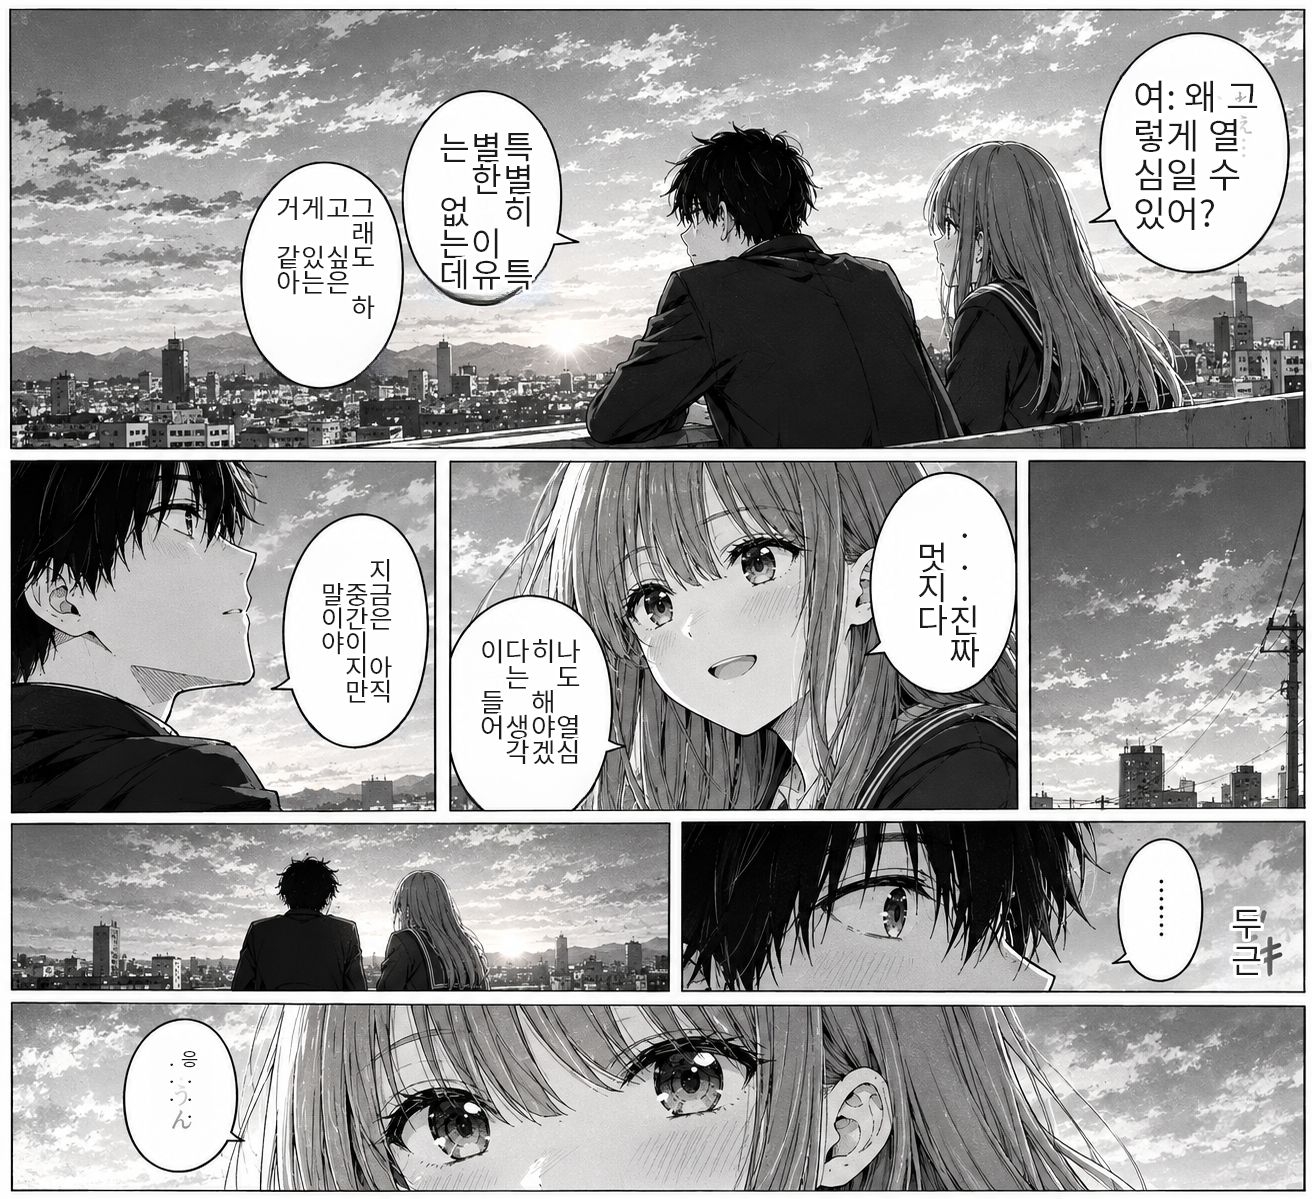
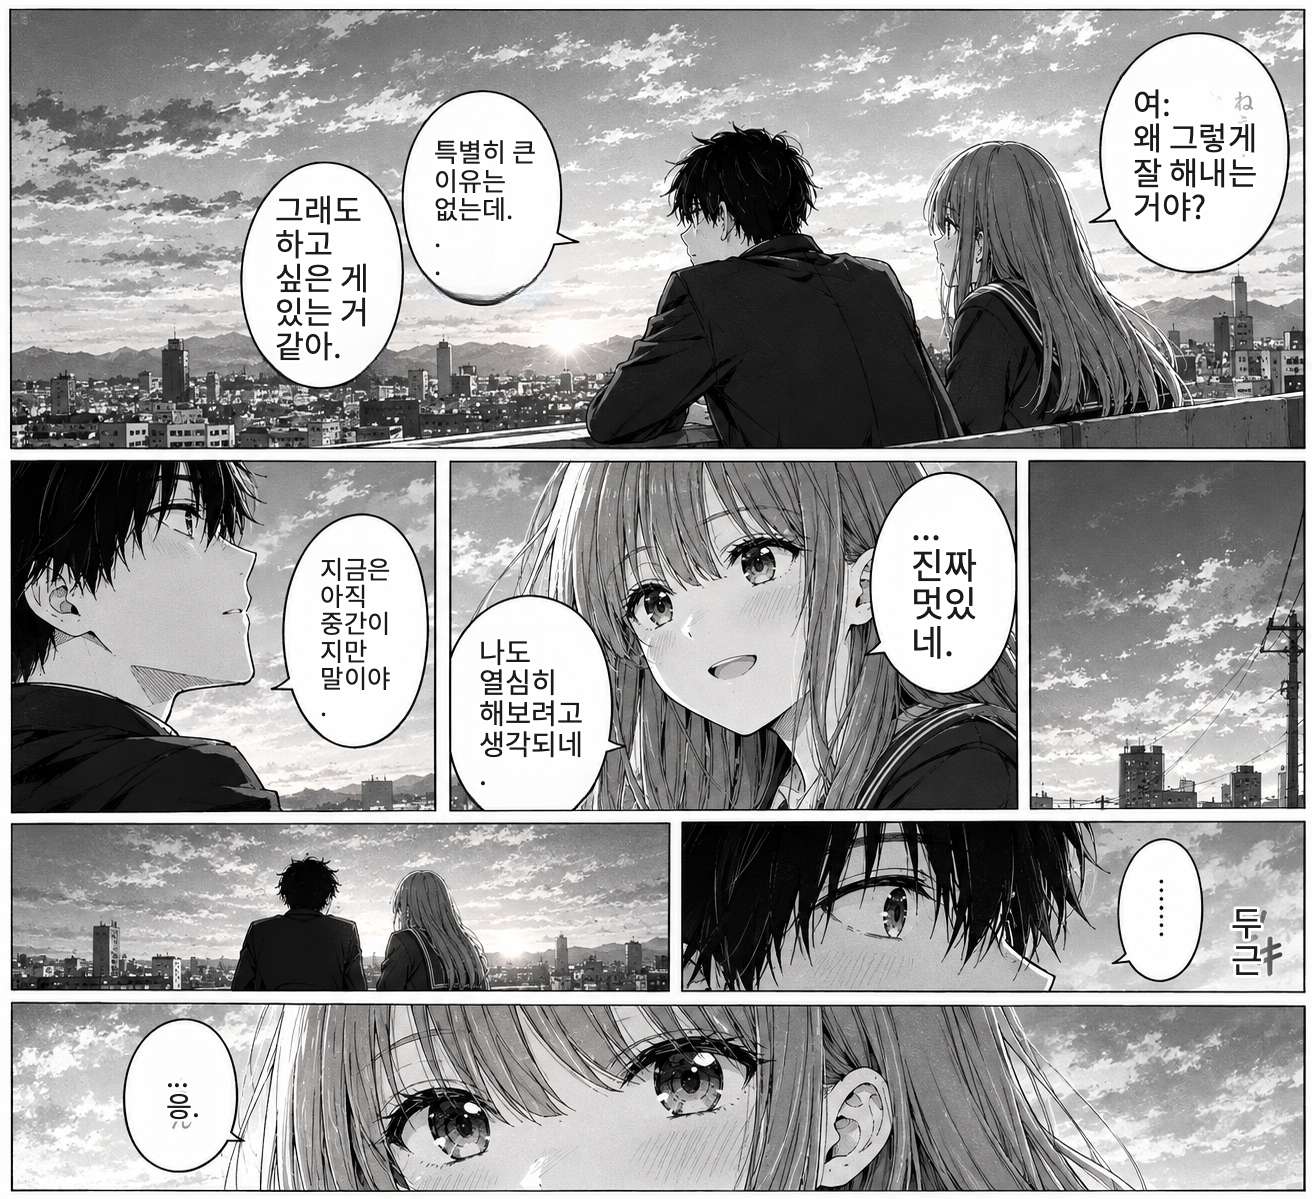
Korean horizontal reflow + tone-aware translation + README refresh
- Renderer: force horizontal Korean layout (RENDER_VERT=1 restores vertical),
  line-break priority: '/' hard break > clause split (…) > word wrap
- SpeechTone (Auto/Male/Female) on TextRegion + per-bubble ComboBox in editor;
  Qwen GGUF injects (여)/(남) markers, Clean() strips marker echoes;
  TRANSLATE_TONE env for CLI; WebApi engines signature-compatible
- README rewritten to current state; stale refs removed
- sample/: refreshed after.png, removed transient clean/ocr/log files

diff --git a/src/MangaTranslator.Plugins.Render.Skia/SkiaFontRenderer.cs b/src/MangaTranslator.Plugins.Render.Skia/SkiaFontRenderer.cs
@@ -47,6 +47,11 @@ public sealed class SkiaFontRenderer : ITextRenderer, ILoadableEngine, IDisposab
     /// halo 색은 fill과 반대: 검은 글자→흰 halo, 흰 글자→검은 halo(만화 표준 가독성 처리).</summary>
     public float OutlineWidth { get; set; } = FEnv("RENDER_OUTLINE", 0.18f, 0f, 0.5f);
 
+    /// <summary>세로 렌더 복귀 스위치(env RENDER_VERT=1). 기본 off —
+    /// 사용자 규칙(2026-10-27): 한국어는 무조건 가로 재조판(행 위→아래 순서).
+    /// OCR 세로 탐지(ReadingDir)는 기본 무시, env로만 만화식 세로 복원.</summary>
+    public static bool RenderVertical => Environment.GetEnvironmentVariable("RENDER_VERT") == "1";
+
     private static float EffMin(float minFs, float scale) => minFs > 0 ? minFs * Math.Clamp(scale, 0.4f, 3f) : 0f;
 
     private SKTypeface? _regular;
@@ -113,9 +118,11 @@ public sealed class SkiaFontRenderer : ITextRenderer, ILoadableEngine, IDisposab
             $"[render] {(r.Vertical?"V":"H")} box={box.Width}x{box.Height} srcCharPx={srcCharPx:0} " +
             $"scale={scale:0.00} text[{text.Length}]='{(text.Length > 12 ? text[..12] : text)}'");
 
-        // 사용자 규칙(2026-10-26): 방향은 ReadingDir 단일 진실원 — 한국어 기본=가로 왼쪽부터 채움.
-        if (r.Vertical) DrawVertical(canvas, text, box, typeface, fill, halo, srcCharPx, scale, r.ColumnRightToLeft);
-        else DrawHorizontal(canvas, text, box, typeface, fill, halo, srcCharPx, scale, r.ColumnRightToLeft);
+        // 사용자 규칙(2026-10-27): 한국어는 항상 가로 재조판 — 행 위→아래 순서, 단어(어절) 단위 줄바꿈.
+        // OCR 세로 탐지는 기본 무시(RENDER_VERT=1로만 복원). 가로 우좌 채움은 명시적 HorizontalRightToLeft만.
+        if (RenderVertical && r.Vertical) DrawVertical(canvas, text, box, typeface, fill, halo, srcCharPx, scale, r.ColumnRightToLeft);
+        else DrawHorizontal(canvas, text, box, typeface, fill, halo, srcCharPx, scale,
+            r.ReadingDir == ReadingDir.HorizontalRightToLeft);
     }
 
     /// <summary>박스 내 배경 밝기 표본 → 밝으면 거의 검정, 어두우면 흰색 글자. (inpaint 후 채움 영역 표본)</summary>
@@ -192,22 +199,69 @@ public sealed class SkiaFontRenderer : ITextRenderer, ILoadableEngine, IDisposab
         }
     }
 
+    /// <summary>사용자 규칙(2026-10-27) 3단 줄나눔 판단 기준:
+    /// ① '/' = 강제 개행(수동 제어, 슬래쉬 기호는 제거하고 줄바꿈)
+    /// ② 말줄임표(… / ...)·문장부호(. , ! ? ; :) 경계 = 어구 자동 분할 → 새 행
+    /// ③ 그 외 = 어절(word) 단위 wrap — 단어를 자르지 않고 넘치면 다음 줄로.
+    /// 단어 자체가 maxW를 넘으면 그 단어만 글자 절단(오버플로 안전판).</summary>
     private static List<string> Wrap(string text, SKPaint paint, int maxW)
     {
+        if (maxW < 1) maxW = 1;
         var lines = new List<string>();
-        var cur = new System.Text.StringBuilder();
-        foreach (var ch in text)
+        foreach (var chunk in SplitPhrases(text))
         {
-            cur.Append(ch);
-            if (paint.MeasureText(cur.ToString()) > maxW && cur.Length > 1)
+            var cur = "";
+            foreach (var word in chunk.Split(' ', StringSplitOptions.RemoveEmptyEntries))
             {
-                cur.Length--;
-                lines.Add(cur.ToString());
-                cur.Clear(); cur.Append(ch);
+                if (cur.Length == 0) { cur = word; continue; }
+                if (paint.MeasureText(cur + " " + word) <= maxW) cur += " " + word;
+                else { lines.Add(cur); cur = word; }
+            }
+            if (cur.Length > 0) lines.Add(cur);
+        }
+        if (lines.Count == 0) lines.Add("");
+
+        // 안전판: 혼자 폭을 넘는 줄만 글자 절단
+        var safe = new List<string>(lines.Count);
+        foreach (var ln in lines)
+        {
+            var s = ln;
+            while (paint.MeasureText(s) > maxW && s.Length > 1)
+            {
+                var cut = s.Length;
+                while (cut > 1 && paint.MeasureText(s[..cut]) > maxW) cut--;
+                safe.Add(s[..cut]);
+                s = s[cut..];
+            }
+            safe.Add(s);
+        }
+        return safe;
+    }
+
+    /// <summary>'/' 강제 개행 → 선두 말줄임표 분리 → 첫 문장부호 뒤로 어구 분할.</summary>
+    private static IEnumerable<string> SplitPhrases(string text)
+    {
+        foreach (var raw in text.Split('/'))
+        {
+            var s = raw.Trim();
+            if (s.Length == 0) continue;
+            var m = System.Text.RegularExpressions.Regex.Match(s, @"^(…|\.{2,})(.+)$", System.Text.RegularExpressions.RegexOptions.Singleline);
+            if (m.Success) { yield return m.Groups[1].Value; s = m.Groups[2].Value.TrimStart(); }
+            while (s.Length > 0)
+            {
+                var cut = -1;
+                for (var i = 0; i < s.Length - 1; i++)
+                {
+                    var c = s[i];
+                    if (c != '.' && c != ',' && c != '!' && c != '?' && c != ';' && c != ':') continue;
+                    if (char.IsDigit(s[i + 1])) continue; // '3.14' 소수점 보호
+                    cut = i; break;
+                }
+                if (cut < 0) { yield return s.Trim(); break; }
+                yield return s[..(cut + 1)].Trim();
+                s = s[(cut + 1)..].Trim();
             }
         }
-        if (cur.Length > 0) lines.Add(cur.ToString());
-        return lines;
     }
 
     // ---------- 세로: 열 방향(우→좌 만화 관행 / 좌→우 한국식) grow-until-fit ----------

diff --git a/src/MangaTranslator.Plugins.Translate.QwenGguf/QwenGgufTranslateEngine.cs b/src/MangaTranslator.Plugins.Translate.QwenGguf/QwenGgufTranslateEngine.cs
@@ -5,6 +5,7 @@ using LLama.Batched;
 using LLama.Common;
 using LLama.Native; // DecodeResult
 using LLama.Sampling;
+using MangaTranslator.Core;
 using MangaTranslator.Core.Interfaces;
 using MangaTranslator.Core.Translate;
 
@@ -36,7 +37,10 @@ public sealed class QwenGgufTranslateEngine : ITranslationEngine, ILoadableEngin
         "당신은 일본어 만화 전문 한국어 번역가다. 만화 대사를 자연스러운 구어체 한국어로 번역한다. " +
         "입력과 같은 수의 줄, 각 줄 '번호. 한국어'. 설명·인사말·출처 금지. " +
         "일본어 혼용 출력 금지 — 반드시 한국어로. 이미 한국어면 다듬어 출력. " +
-        "캐릭터 말투(존댓말/반말)와 뉘앙스·의성어를 살린다. 말풍선 길이 제약이 있으므로 간결하게.";
+        "캐릭터 말투(존댓말/반말)와 뉘앙스·의성어를 살린다. 말풍선 길이 제약이 있으므로 간결하게. " +
+        "대사 뒤에 (여) 또는 (남) 마커가 붙으면 그 화자의 성별·성격에 맞는 한국어 말투를 쓴다 — " +
+        "(여): 여성스러운 어미(～년/～다/～잖아·부드러운 종결), (남): 남성적인 어미(～다/～는데/～냐·건장한 종결). " +
+        "마커가 없거나 (자)면 문맥(私/僕/あた시 등)으로 화자를 추정한다. 마커는 절대 출력하지 않는다.";
 
     private readonly SemaphoreSlim _gate = new(1, 1);
     private readonly object _loadLock = new();
@@ -96,7 +100,8 @@ public sealed class QwenGgufTranslateEngine : ITranslationEngine, ILoadableEngin
 
     // ---------- 번역 ----------
     public async Task<IReadOnlyList<string>> TranslateAsync(
-        IReadOnlyList<string> texts, string sourceLang, string targetLang, CancellationToken ct = default)
+        IReadOnlyList<string> texts, string sourceLang, string targetLang,
+        IReadOnlyList<SpeechTone>? tones = null, CancellationToken ct = default)
     {
         if (texts.Count == 0) return Array.Empty<string>();
         await _gate.WaitAsync(ct);
@@ -104,22 +109,48 @@ public sealed class QwenGgufTranslateEngine : ITranslationEngine, ILoadableEngin
         {
             await Task.Run(EnsureLoaded, ct); // 14B 디스크→VRAM 로드: UI 스레드 차단 금지
 
-            var batch = await Task.Run(() => Generate(NumberedBatchProtocol.BuildPrompt(texts),
-                Math.Min(2048, 96 + EstimateChars(texts))), ct);
+            // 말투 마커(사용자 2026-10-27): (여)/(남)/(자)=auto — 프롬프트에만 주입, 출력은 원줄과 1:1
+            var prompted = WithToneMarkers(texts, tones);
+            var batch = await Task.Run(() => Generate(NumberedBatchProtocol.BuildPrompt(prompted),
+                Math.Min(2048, 96 + EstimateChars(prompted))), ct);
             var parsed = NumberedBatchProtocol.Parse(batch, texts.Count);
             if (parsed != null) return parsed;
 
-            // 폴백: 개별 라인
+            // 폴백: 개별 라인(개별에도 마커 유지 — Parse 실패 라인만 재역)
             var outp = new List<string>(texts.Count);
-            foreach (var t in texts)
+            for (var i = 0; i < texts.Count; i++)
             {
                 ct.ThrowIfCancellationRequested();
-                var one = await Task.Run(() => Generate(t, 96 + t.Length * 2), ct);
+                var one = await Task.Run(() => Generate(prompted[i], 96 + texts[i].Length * 2), ct);
                 outp.Add(NumberedBatchProtocol.Clean(one));
             }
             return outp;
         }
         finally { _gate.Release(); }
+    }
+
+    /// <summary>texts[i] 뒤에 말투 마커 부기. 전부 Auto면 원본 그대로(마크업 0).
+    /// tones=null/mismatch → env TRANSLATE_TONE(female|male)이 페이지만지 전 페이지 기본말투(CLI smoke용).</summary>
+    private static IReadOnlyList<string> WithToneMarkers(IReadOnlyList<string> texts, IReadOnlyList<SpeechTone>? tones)
+    {
+        if (tones == null || tones.Count != texts.Count)
+        {
+            var env = Environment.GetEnvironmentVariable("TRANSLATE_TONE")?.ToLowerInvariant();
+            var dflt = env is "female" or "여" ? SpeechTone.Female : env is "male" or "남" ? SpeechTone.Male : SpeechTone.Auto;
+            if (dflt == SpeechTone.Auto) return texts;
+            tones = texts.Select(_ => dflt).ToList();
+        }
+        var any = tones.Any(t => t != SpeechTone.Auto);
+        if (!any) return texts;
+        var outp = new List<string>(texts.Count);
+        for (var i = 0; i < texts.Count; i++)
+            outp.Add(tones[i] switch
+            {
+                SpeechTone.Female => texts[i] + " (여)",
+                SpeechTone.Male => texts[i] + " (남)",
+                _ => texts[i],
+            });
+        return outp;
     }
 
     private static int EstimateChars(IReadOnlyList<string> texts)

diff --git a/src/MangaTranslator.App/ViewModels/TextInstanceViewModel.cs b/src/MangaTranslator.App/ViewModels/TextInstanceViewModel.cs
@@ -8,6 +8,9 @@ namespace MangaTranslator.App.ViewModels;
 /// <summary>읽기 방향 ComboBox 항목: 값+라벨+아이콘(Path Data). MainWindow.axaml DataTemplate이 참조.</summary>
 public sealed record ReadingDirOption(ReadingDir Dir, string Label, string IconData);
 
+/// <summary>말투 ComboBox 항목(사용자 2026-10-27): 번역 어투 성별·성격 힌트.</summary>
+public sealed record ToneOption(SpeechTone Tone, string Label);
+
 /// <summary>
 /// 사용자 편집 가능한 텍스트 인스턴스(사각형). Step1(감지) 이후 좌표·내용을
 /// 추가/삭제/수정할 수 있고, Apply 시 TextRegion으로 변환되어 전달된다.
@@ -18,6 +21,7 @@ public sealed class TextInstanceViewModel : ReactiveObject
     private string _text = "";
     private string _translatedText = "";
     private ReadingDir _readingDir = ReadingDir.HorizontalLeftToRight;
+    private SpeechTone _tone = SpeechTone.Auto;
     private bool _isSelected;
     private double _confidence = -1;
     private bool _include = true;
@@ -144,6 +148,34 @@ public sealed class TextInstanceViewModel : ReactiveObject
     public bool ColumnRightToLeft => _readingDir is ReadingDir.VerticalTopToBottomRightToLeft
         or ReadingDir.HorizontalRightToLeft;
 
+    /// <summary>말투(번역 어투 힌트, 사용자 2026-10-27): 여성형/남성형 강제 또는 자동 추정.</summary>
+    public SpeechTone Tone
+    {
+        get => _tone;
+        set { this.RaiseAndSetIfChanged(ref _tone, value); this.RaisePropertyChanged(nameof(ToneOption)); }
+    }
+
+    public ToneOption ToneOption
+    {
+        get => new(_tone, ToneLabel(_tone));
+        set { if (value != null) Tone = value.Tone; }
+    }
+
+    /// <summary>말투 3택 옵션(단일 진실원).</summary>
+    public static IReadOnlyList<ToneOption> ToneOptions { get; } = new[]
+    {
+        new ToneOption(SpeechTone.Auto, "말투 자동"),
+        new ToneOption(SpeechTone.Female, "여성형"),
+        new ToneOption(SpeechTone.Male, "남성형"),
+    };
+
+    private static string ToneLabel(SpeechTone t) => t switch
+    {
+        SpeechTone.Female => "여성형",
+        SpeechTone.Male => "남성형",
+        _ => "말투 자동",
+    };
+
     public double Width => Math.Max(0, Right - Left);
     public double Height => Math.Max(0, Bottom - Top);
 
@@ -171,6 +203,7 @@ public sealed class TextInstanceViewModel : ReactiveObject
         Text = r.Text, ReadingDir = r.ReadingDir,
         TranslatedText = r.TranslatedText, Confidence = r.Confidence,
         SrcCharPx = r.Style.SrcCharPx, Bold = r.Style.Bold,
+        Tone = r.Tone,
     };
 
     public TextRegion ToRegion() => new()
@@ -178,6 +211,7 @@ public sealed class TextInstanceViewModel : ReactiveObject
         Box = new BoundingBox((int)Left, (int)Top, (int)Right, (int)Bottom),
         Text = Text,
         ReadingDir = ReadingDir,
+        Tone = Tone,
         Style = new TextStyle
         {
             FontSizePx = (float)Math.Clamp(Max(SrcCharPx, Height * 0.7), 12.0, 200.0),

diff --git a/src/MangaTranslator.Core/TextRegion.cs b/src/MangaTranslator.Core/TextRegion.cs
@@ -25,6 +25,10 @@ public sealed class TextRegion
         or ReadingDir.HorizontalRightToLeft;
     public double Confidence { get; set; } = 1.0;
 
+    /// <summary>화자 말투(사용자 2026-10-27): 번역 엔진에 넘기는 성별·성격 힌트.
+    /// Auto = 문맥에서 추정, Male/Female = 강제. 렌더는 무관, 번역 단계만 소비.</summary>
+    public SpeechTone Tone { get; set; } = SpeechTone.Auto;
+
     public TextStyle Style { get; set; } = new();
 
     /// <summary>inpaint용: 박스 확장(여백 포함). pad=8 — LaMa 클린 영역을 렌더 inflate와 동일하게.</summary>
@@ -52,6 +56,10 @@ public sealed class TextStyle
 }
 
 public enum BalloonKind { Unknown, SpeechBubble, NarrationBox, Shout, Sfx, PlainText }
+
+/// <summary>번역 말투 선택(사용자 2026-10-27): 여성형/남성형 어미·어투 선택.
+/// Auto면 번역 모델이 원문 대사(私/僕/あたし·어미 뉘앙스)로 화자를 추정한다.</summary>
+public enum SpeechTone { Auto, Male, Female }
 
 /// <summary>말풍선 읽기·재조판 방향(사용자 선택, 2026-10-26 ComboBox).
 /// 시작 모서리 + 축: 읽기 첫 문자 위치와 진행 축. 세로일 때 열 순서, 가로일 때 행 정렬 기준을 결정한다.</summary>

diff --git a/src/MangaTranslator.Core/Translate/NumberedBatchProtocol.cs b/src/MangaTranslator.Core/Translate/NumberedBatchProtocol.cs
@@ -32,7 +32,8 @@ public static class NumberedBatchProtocol
         return map.All(s => !string.IsNullOrEmpty(s)) ? map.Select(s => s!).ToList() : null;
     }
 
-    /// <summary>모델이 붙이는 서두 장식 제거: '번역:'·따옴표·이중 번호·구두점 — 안정화까지 반복.</summary>
+    /// <summary>모델이 붙이는 서두 장식 제거: '번역:'·따옴표·이중 번호·구두점 — 안정화까지 반복.
+    /// 말투 마커 누수((여)/(남)/(자)) 안전망: 번역이 마커를 재출력하면 항상 제거한다.</summary>
     public static string Clean(string s)
     {
         s = s.Trim();
@@ -40,6 +41,7 @@ public static class NumberedBatchProtocol
         do
         {
             prev = s;
+            s = Regex.Replace(s, @"\s*[(（](여|남|자)[)）]\s*$", ""); // 말투 마커 echo 제거
             s = s.TrimStart('「', '『', '“', '"', '\'', '·', '-', '•');
             if (s.StartsWith("번역", StringComparison.Ordinal)) s = s[2..];
             s = s.TrimStart(':', '：', '.', ' ', '"', '\'', '”', '』', '」');

diff --git a/src/MangaTranslator.Plugins.Translate.WebApi/WebTranslateEngine.cs b/src/MangaTranslator.Plugins.Translate.WebApi/WebTranslateEngine.cs
@@ -3,6 +3,7 @@ using System.Net.Http.Headers;
 using System.Text;
 using System.Text.Json;
 using System.Text.RegularExpressions;
+using MangaTranslator.Core;
 using MangaTranslator.Core.Interfaces;
 using MangaTranslator.Core.Translate;
 
@@ -36,8 +37,11 @@ public sealed class WebTranslateEngine : ITranslationEngine, IDisposable
             ? Math.Clamp(c, 1, 8) : 4;
 
     public async Task<IReadOnlyList<string>> TranslateAsync(
-        IReadOnlyList<string> texts, string sourceLang, string targetLang, CancellationToken ct = default)
+        IReadOnlyList<string> texts, string sourceLang, string targetLang,
+        IReadOnlyList<SpeechTone>? tones = null, CancellationToken ct = default)
     {
+        // seq2seq(google·deepl)은 말투 힌트 미소비 — openai만 컨텍스트로 활용 가능(현행 무시).
+        _ = tones;
         return Provider.ToLowerInvariant() switch
         {
             "deepl" => await TranslateDeepLAsync(texts, ct),

diff --git a/src/MangaTranslator.Core/Interfaces/IEngines.cs b/src/MangaTranslator.Core/Interfaces/IEngines.cs
@@ -1,4 +1,5 @@
 using MangaTranslator.Core.Imaging;
+using MangaTranslator.Core;
 
 namespace MangaTranslator.Core.Interfaces;
 
@@ -53,8 +54,11 @@ public interface ITranslationEngine
     string Name { get; }
     int MaxConcurrentSentences { get; }
     bool RequiresGpu { get; }
+    /// <summary>tones: 화자 말투 힌트(동일 길이, null=전부 Auto). LLM 엔진은 (남)/(여) 마커로
+    /// 어투를 맞추고, seq2seq(google·deepl) 엔진은 무시한다.</summary>
     Task<IReadOnlyList<string>> TranslateAsync(
-        IReadOnlyList<string> texts, string sourceLang, string targetLang, CancellationToken ct = default);
+        IReadOnlyList<string> texts, string sourceLang, string targetLang,
+        IReadOnlyList<SpeechTone>? tones = null, CancellationToken ct = default);
 }
 
 /// <summary>⑤ 번역문을 같은 위치·비슷한 스타일로 재조판.</summary>

diff --git a/src/MangaTranslator.Core/Pipeline/TranslationPipeline.cs b/src/MangaTranslator.Core/Pipeline/TranslationPipeline.cs
@@ -76,7 +76,8 @@ public sealed class TranslationPipeline
         MaybeUnload(_ocr, "apply-before-translate"); // Review 종료=OCR GGUF 해방 → 번역 GGUF 순차 상재
         HoldOcrLoaded = false;
         var texts = regions.Select(r => r.Text).ToList();
-        var translated = await _translate.TranslateAsync(texts, sourceLang, targetLang, ct);
+        var tones = regions.Select(r => r.Tone).ToList();
+        var translated = await _translate.TranslateAsync(texts, sourceLang, targetLang, tones, ct);
         // 전각→반각(사용자 피드백): 편집 UI 텍스트·렌더가 일관되게 반각
         for (int i = 0; i < regions.Count; i++) regions[i].TranslatedText = TextNormalizer.ToHalfWidth(translated[i]);
         MaybeUnload(_translate, "translate"); // 18GB 번역 GGUF 해제 — 렌더는 CPU(Skia)

diff --git a/src/MangaTranslator.Core/Engines/FallbackEngines.cs b/src/MangaTranslator.Core/Engines/FallbackEngines.cs
@@ -59,7 +59,8 @@ public sealed class PassthroughTranslationEngine : ITranslationEngine
     public int MaxConcurrentSentences => 64;
     public bool RequiresGpu => false;
     public Task<IReadOnlyList<string>> TranslateAsync(
-        IReadOnlyList<string> texts, string sourceLang, string targetLang, CancellationToken ct = default)
+        IReadOnlyList<string> texts, string sourceLang, string targetLang,
+        IReadOnlyList<SpeechTone>? tones = null, CancellationToken ct = default)
         => Task.FromResult<IReadOnlyList<string>>(texts);
 }
 
